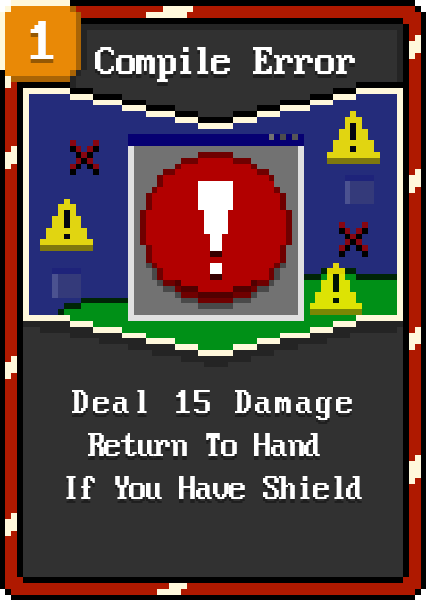
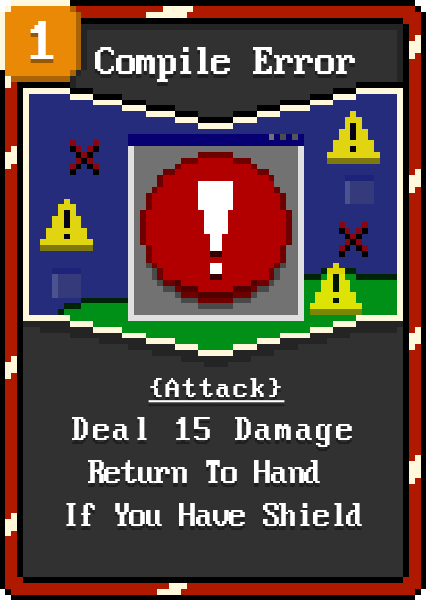
Poly, sound effects, sea++

Changed region(s): [[0.1526, 0.63, 0.8545, 0.9]]

diff --git a/src/main/ArtLoader.java b/src/main/ArtLoader.java
@@ -24,14 +24,23 @@ public class ArtLoader
     public static BufferedImage segfaultArt;
     public static BufferedImage compileArt;
     public static BufferedImage pingArt;
-    public static BufferedImage level1Background;
+    public static BufferedImage polyArt;
+
+    public static BufferedImage seaFrame1;
+    public static BufferedImage seaFrame2;
+    public static BufferedImage seaFrameHit;
+
     public static BufferedImage pythonFrame1;
     public static BufferedImage pythonFrame2;
+    public static BufferedImage pythonFrameHit;
 
     public static Clip shieldSound;
     public static Clip cardHover;
     public static Clip attackSound;
     public static Clip skillSound;
+    public static Clip enemyHurtSound;
+    public static Clip playerHurtSound;
+    public static Clip noEnergySound;
 
     public static Font perfectFont;
     public static Font smallPerfectFont;
@@ -51,16 +60,22 @@ public class ArtLoader
             segfaultArt = ImageIO.read(new File("cardAssets/segfault.png"));
             pingArt = ImageIO.read(new File("cardAssets/ping.png"));
             compileArt = ImageIO.read(new File("cardAssets/compile.png"));
+            polyArt = ImageIO.read(new File("cardAssets/poly.png"));
 
             cardHover = loadSound("SoundEffects/cardHover.wav");
             attackSound = loadSound("SoundEffects/attack.wav");
             shieldSound = loadSound("SoundEffects/shield.wav");
             skillSound = loadSound("SoundEffects/skill.wav");
+            enemyHurtSound = loadSound("SoundEffects/hithurt.wav");
+            playerHurtSound = loadSound("SoundEffects/playerhurt.wav");
+            noEnergySound = loadSound("SoundEffects/energysound.wav");
 
-            level1Background = ImageIO.read(new File("UIAssets/bg1.png"));
             pythonFrame1 = ImageIO.read(new File("UIAssets/pythonframe1.png"));
             pythonFrame2 = ImageIO.read(new File("UIAssets/pythonframe2.png"));
-
+            pythonFrameHit = ImageIO.read(new File("UIAssets/pythonframehit3.png"));
+            seaFrame1 = ImageIO.read(new File("UIAssets/seaframe1.png"));
+            seaFrame2 = ImageIO.read(new File("UIAssets/seaframe2.png"));
+            seaFrameHit = ImageIO.read(new File("UIAssets/seaframehit.png"));
 
             endTurnArt = ImageIO.read(new File("UIAssets/endturn.png"));
             shieldArt = ImageIO.read(new File("UIAssets/shield.png"));

diff --git a/src/Level/Level2.java b/src/Level/Level2.java
@@ -12,7 +12,7 @@ public class Level2 extends BaseLevel
     public Level2(LevelHandler LevelH, TurnHandler turnH)
     {
         super(LevelH, turnH, 100);
-        energyReplenishAmount = 3;
+        energyReplenishAmount = 4;
         this.LevelH = LevelH;
         this.turnH = turnH;
     }
@@ -35,7 +35,7 @@ public class Level2 extends BaseLevel
     public void init(int playerStartingHealth)
     {
         player = new Entity(playerStartingHealth, 100, 0, "Player");
-        enemy = new Entity(500, 500, 50, "C-Plus-Plus");
+        enemy = new Entity(500, 500, 50, "Sea Plus-Plus", this);
         enemyAI = new CPlusEnemyAI(player, enemy, LevelH);
 
         CH = new CardHandler(player, enemy, LevelH,5);
@@ -45,8 +45,56 @@ public class Level2 extends BaseLevel
         initialized = true;
     }
 
+
+
+
+    //RENDERING BACKGROUND
     public void renderBackground(Graphics2D g2)
     {
-        g2.drawImage(ArtLoader.level1Background, 0, 0, GamePanel.screenWidth, GamePanel.screenHeight, null);
+        frameCount++;
+
+        if (frameCount >= 60)
+        {
+            frameStatus = !frameStatus;
+            frameCount = 0;
+            canGetFrameCount = true;
+        }
+
+        if (frameStatus && !enemyHit)
+        {
+            g2.drawImage(ArtLoader.seaFrame1, 0, 0, GamePanel.screenWidth, GamePanel.screenHeight, null); //idleframe
+        }
+        else if (!frameStatus && !enemyHit)
+        {
+            g2.drawImage(ArtLoader.seaFrame2, 0, 0, GamePanel.screenWidth, GamePanel.screenHeight, null); //idleframe2
+        }
+        else
+        {
+            g2.drawImage(ArtLoader.seaFrameHit, 0, 0, GamePanel.screenWidth, GamePanel.screenHeight, null); //hit frame
+            getPreviousFrameCount();
+
+            if (frameCount >= previousframeCount + 5)
+            {
+                enemyHit = false;
+            }
+            else
+            {
+                System.out.println(previousframeCount);
+            }
+
+        }
     }
+
+    int previousframeCount;
+    boolean canGetFrameCount = true;
+    public void getPreviousFrameCount()
+    {
+        if (canGetFrameCount)
+        {
+            previousframeCount = frameCount;
+            canGetFrameCount = false;
+        }
+    }
+
+
 }

diff --git a/src/Entity/Entity.java b/src/Entity/Entity.java
@@ -1,5 +1,10 @@
 package Entity;
 
+import Level.BaseLevel;
+import main.ArtLoader;
+
+import javax.sound.sampled.Clip;
+
 public class Entity
 {
     public int health;
@@ -8,15 +13,17 @@ public class Entity
     public HealthBar healthBar;
     public String name;
     public int vulnerability = 0;
-    public OpponentAI opponentAI;
+    public BaseLevel level;
+    public Clip hurtSound;
 
-    public Entity(int initialHealth, int MaxHealth, int initialBlock, String name, OpponentAI opponentAI)
+    public Entity(int initialHealth, int MaxHealth, int initialBlock, String name, BaseLevel level) //ONLY USE THIS CONSTRUCTOR FOR ENEMIES
     {
         health = initialHealth;
         this.maxHealth = MaxHealth; //stores max health for later
         block = initialBlock;
         this.name = name;
-        this.opponentAI = opponentAI;
+        this.level = level;
+        hurtSound = ArtLoader.enemyHurtSound;
 
         healthBar = new HealthBar(this, name);
     }
@@ -27,6 +34,8 @@ public class Entity
         this.maxHealth = MaxHealth; //stores max health for later
         block = initialBlock;
         this.name = name;
+        this.level = level;
+        hurtSound = ArtLoader.playerHurtSound;
 
         healthBar = new HealthBar(this, name);
     }
@@ -47,6 +56,9 @@ public class Entity
                 int remainingDamage = block - incoming;
                 block = 0;
                 health = health + remainingDamage; //always - value so it subtracts
+
+                renderEntityHit();
+                ArtLoader.playSound(hurtSound, -10);
             }
             else if (remainingBlock > 0)
             {
@@ -56,7 +68,10 @@ public class Entity
         else if (block <= 0)
         {
             health = health - incoming;
+            renderEntityHit();
+            ArtLoader.playSound(hurtSound, -10);
         }
+
 
         System.out.println("HEALTH: " + health + " SHIELD: " + block);
     }
@@ -81,6 +96,14 @@ public class Entity
         if (vulnerability > 0)
         {
             vulnerability -= 1;
+        }
+    }
+
+    public void renderEntityHit()
+    {
+        if (level != null)
+        {
+            level.enemyHit = true;
         }
     }
 }

diff --git a/src/Level/Level1.java b/src/Level/Level1.java
@@ -36,7 +36,7 @@ public class Level1 extends BaseLevel
     public void init(int playerStartingHealth)
     {
         player = new Entity(playerStartingHealth, 100, 0, "Player");
-        enemy = new Entity(250, 250, 50, "Python");
+        enemy = new Entity(250, 250, 50, "Python", this);
         enemyAI = new PythonEnemyAI(player, enemy, LevelH);
 
         CH = new CardHandler(player, enemy, LevelH, 5);
@@ -47,28 +47,56 @@ public class Level1 extends BaseLevel
     }
 
 
+
+
+
+
+    //RENDERING BACKGROUND
     public void renderBackground(Graphics2D g2)
     {
         frameCount++;
-        if (frameCount >= 60 && !enemyHit)
+
+        if (frameCount >= 60)
         {
             frameStatus = !frameStatus;
             frameCount = 0;
+            canGetFrameCount = true;
         }
 
         if (frameStatus && !enemyHit)
         {
-            g2.drawImage(ArtLoader.pythonFrame1, 0, 0, GamePanel.screenWidth, GamePanel.screenHeight, null);
+            g2.drawImage(ArtLoader.pythonFrame1, 0, 0, GamePanel.screenWidth, GamePanel.screenHeight, null); //idleframe
         }
         else if (!frameStatus && !enemyHit)
         {
-            g2.drawImage(ArtLoader.pythonFrame2, 0, 0, GamePanel.screenWidth, GamePanel.screenHeight, null);
+            g2.drawImage(ArtLoader.pythonFrame2, 0, 0, GamePanel.screenWidth, GamePanel.screenHeight, null); //idleframe2
         }
         else
         {
+            g2.drawImage(ArtLoader.pythonFrameHit, 0, 0, GamePanel.screenWidth, GamePanel.screenHeight, null); //hit frame
+            getPreviousFrameCount();
+
+            if (frameCount >= previousframeCount + 5)
+            {
+                enemyHit = false;
+            }
+            else
+            {
+                System.out.println(previousframeCount);
+            }
 
         }
-
-
     }
+
+    int previousframeCount;
+    boolean canGetFrameCount = true;
+    public void getPreviousFrameCount()
+    {
+        if (canGetFrameCount)
+        {
+            previousframeCount = frameCount;
+            canGetFrameCount = false;
+        }
+    }
+
 }

diff --git a/src/Cards/CardInitializer.java b/src/Cards/CardInitializer.java
@@ -14,13 +14,14 @@ public class CardInitializer
     public CardInitializer(CardHandler CH)
     {
         allCards.add(new Parry("Parry", "Defend", 1, ArtLoader.parryArt, CH));
-        //allCards.add(new JavaAttack("Hot Java", "Attack", 1, ArtLoader.javaArt, CH));
+        allCards.add(new JavaAttack("Hot Java", "Attack", 1, ArtLoader.javaArt, CH));
         allCards.add(new Infinite("Infinite Loop", "Attack", 2, ArtLoader.infiniteArt, CH));
         allCards.add(new Memory("Memory Leak", "Attack", 1, ArtLoader.memoryArt, CH));
         allCards.add(new Firewall("Firewall", "Attack", 2, ArtLoader.firewallArt, CH));
         allCards.add(new Segfault("Segfault", "Bug", 1, ArtLoader.segfaultArt, CH));
         allCards.add(new Ping("Ping", "Skill", 1, ArtLoader.pingArt, CH));
         allCards.add(new Compile("Compile", "Attack", 1, ArtLoader.compileArt, CH));
+        allCards.add(new Polymorphism("Polymorphism", "Attack", 3, ArtLoader.polyArt, CH));
     }
 
     public Card randomCard()

diff --git a/src/Cards/CardClasses/Polymorphism.java b/src/Cards/CardClasses/Polymorphism.java
@@ -1,0 +1,26 @@
+package Cards.CardClasses;
+
+import Cards.Card;
+import Cards.CardHandler;
+import Entity.Entity;
+import main.ArtLoader;
+
+import java.awt.image.BufferedImage;
+
+public class Polymorphism extends Card
+{
+
+    public Polymorphism(String name, String type, int energyCost, BufferedImage sprite, CardHandler CH)
+    {
+        super(name, type, energyCost, sprite, CH);
+    }
+
+    @Override
+    public void cardAction(Entity player, Entity enemy)
+    {
+        System.out.println(CH.energy + " energy remaining");
+        CH.energy -= energyCost;
+        enemy.damage(5 * CH.hand.size());
+        ArtLoader.playSound(ArtLoader.attackSound, -23);
+    }
+}

diff --git a/src/Entity/OpponentAI.java b/src/Entity/OpponentAI.java
@@ -83,6 +83,6 @@ public class OpponentAI
     public void renderOpponentDecision(Graphics2D g2, Font font)
     {
         //render decision
-        TextRenderer.renderText(g2, decisionString, font, Color.white, GamePanel.screenWidth - GamePanel.screenWidth/3, GamePanel.screenHeight/4);
+        TextRenderer.renderText(g2, decisionString, font, Color.white, (int) (GamePanel.screenWidth - g2.getFontMetrics().stringWidth(decisionString) * 1.1), GamePanel.screenHeight/4);
     }
 }

diff --git a/src/main/GamePanel.java b/src/main/GamePanel.java
@@ -80,7 +80,13 @@ public class GamePanel extends JPanel implements Runnable
 
         g2.setRenderingHint(RenderingHints.KEY_INTERPOLATION, RenderingHints.VALUE_INTERPOLATION_NEAREST_NEIGHBOR); //makes pixel art correct
 
-        LevelH.renderLevel(g2);
+        try
+        {
+            LevelH.renderLevel(g2);
+        } catch (InterruptedException e)
+        {
+            throw new RuntimeException(e);
+        }
 
         g2.dispose();
     }

diff --git a/src/Cards/CardHandler.java b/src/Cards/CardHandler.java
@@ -146,6 +146,7 @@ public class CardHandler
                         else
                         {
                             System.out.println("Not enough energy!");
+                            ArtLoader.playSound(ArtLoader.noEnergySound, -15);
                         }
                     }
                     else

diff --git a/src/Level/LevelHandler.java b/src/Level/LevelHandler.java
@@ -22,7 +22,7 @@ public class LevelHandler
         currentLevel.init(100);
     }
 
-    public void renderLevel(Graphics2D g2)
+    public void renderLevel(Graphics2D g2) throws InterruptedException
     {
         currentLevel.updateLevel(g2, turnH);
         currentLevel.checkEndGame();

diff --git a/src/Level/BaseLevel.java b/src/Level/BaseLevel.java
@@ -57,7 +57,7 @@ public class BaseLevel
         }
     }
 
-    public void renderBackground(Graphics2D g2)
+    public void renderBackground(Graphics2D g2) throws InterruptedException
     {
 
     }
